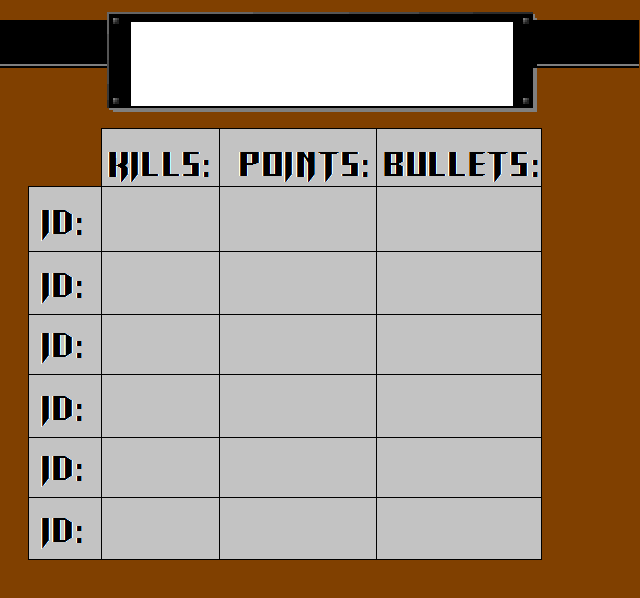
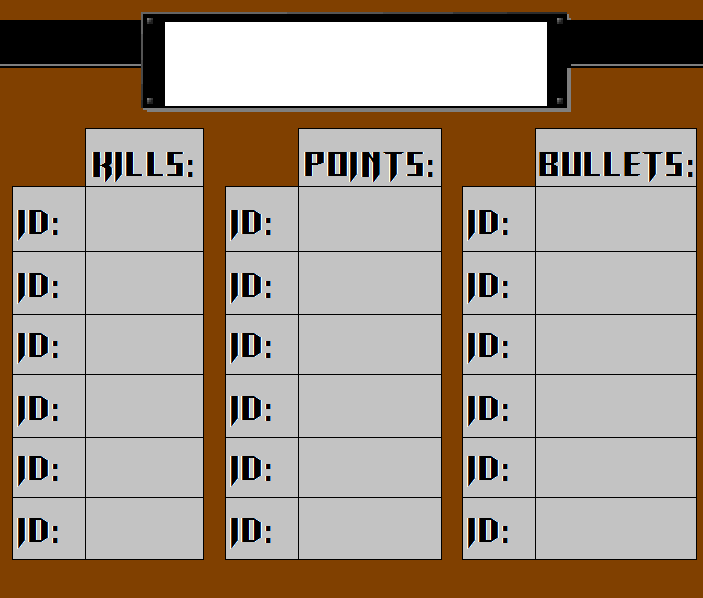
actualizada pantalla de fin de partida2

Changed region(s): [[0.0, 0.2107, 1.0, 0.9632], [0.1562, 0.0, 0.25, 0.2107], [0.7812, 0.0, 0.8438, 0.2107]]

diff --git a/client_src/texture.cpp b/client_src/texture.cpp
@@ -662,26 +662,34 @@ void Texture::showSprite(int first_x_pixel,int first_number_line_texture,int las
 		x_initial_pos,(int)x_lenght_ray*(last_x_pixel - first_x_pixel),initial_position_y,height_ray);
 }
 
-void Texture::showEndgame(){
+void Texture::showRanking(std::vector<std::pair<int,int>> &ordered_players_kills, \
+    std::vector<std::pair<int,int>> &ordered_players_points,std::vector<std::pair<int,int>> &ordered_players_bullets){
 
-	int first_x_pixel = 0;
-	int cant_x_pixels = 662;
-	int first_y_pixel = 0;
-	int cant_y_pixels = 281;
+    int position = 0;
+    for (auto& player : ordered_players_kills){
+    	showText(std::to_string(player.second).c_str(),40 , 40, 100 , 163 + position*50);
+    	showText(std::to_string(player.first).c_str(),40 , 40, 150, 163 + position*50);
+        ++position;
+    }
+    position = 0;
+    for (auto& player : ordered_players_points){
+    	showText(std::to_string(player.second).c_str(),40 , 40, 300 , 163 + position*50);
+    	showText(std::to_string(player.first).c_str(),40 , 40, 350, 163 + position*50);
+        ++position;
+    }
+    position = 0;
+    for (auto& player : ordered_players_bullets){
+        std::cout << "Position " << position << " Player_ID: " << player.second << " Bullets: " << player.first << std::endl;
+        ++position;
+    }
 
-	int windows_x_pos = 0;
-	int windows_y_pos = 0;
-	int length_x = width;
-	int lenght_y = height;
-
-	genericShow(ending_background,first_x_pixel,cant_x_pixels,first_y_pixel,cant_y_pixels,windows_x_pos,length_x,windows_y_pos,lenght_y);	
 }
 
 void Texture::showWinningScreen(std::vector<std::pair<int,int>> &ordered_players_kills, \
     std::vector<std::pair<int,int>> &ordered_players_points,std::vector<std::pair<int,int>> &ordered_players_bullets){
 
 	int first_x_pixel = 0;
-	int cant_x_pixels = 640;
+	int cant_x_pixels = 703;
 	int first_y_pixel = 0;
 	int cant_y_pixels = 598;
 
@@ -692,7 +700,9 @@ void Texture::showWinningScreen(std::vector<std::pair<int,int>> &ordered_players
 
 	genericShow(ending_background,first_x_pixel,cant_x_pixels,first_y_pixel,cant_y_pixels,windows_x_pos,length_x,windows_y_pos,lenght_y);	
 
-	showText("You won!!",35 , 25, width/2, 40);
+	showText("You won!!",40 , 40, width/2 + 190, 40);
+
+	showRanking(ordered_players_kills,ordered_players_points,ordered_players_bullets);
 
 }
 
@@ -700,7 +710,7 @@ void Texture::showLoosingScreen(int winner_id, std::vector<std::pair<int,int>> &
     std::vector<std::pair<int,int>> &ordered_players_points,std::vector<std::pair<int,int>> &ordered_players_bullets){
 
 	int first_x_pixel = 0;
-	int cant_x_pixels = 640;
+	int cant_x_pixels = 703;
 	int first_y_pixel = 0;
 	int cant_y_pixels = 598;
 
@@ -710,6 +720,8 @@ void Texture::showLoosingScreen(int winner_id, std::vector<std::pair<int,int>> &
 	int lenght_y = height + INFO_BAR_HEIGHT;
 
 	genericShow(ending_background,first_x_pixel,cant_x_pixels,first_y_pixel,cant_y_pixels,windows_x_pos,length_x,windows_y_pos,lenght_y);	
+
+	showRanking(ordered_players_kills,ordered_players_points,ordered_players_bullets);
 
 }
 

diff --git a/client_src/texture.h b/client_src/texture.h
@@ -83,6 +83,9 @@ private:
     
     void showKeys(bool has_key_1, bool has_key_2);
 
+    void showRanking(std::vector<std::pair<int,int>> &ordered_players_kills, \
+    std::vector<std::pair<int,int>> &ordered_players_points,std::vector<std::pair<int,int>> &ordered_players_bullets);
+
 public:
 
     Texture(const Window& window);
@@ -157,8 +160,6 @@ public:
     std::vector<std::pair<int,int>> &ordered_players_points,std::vector<std::pair<int,int>> &ordered_players_bullets);
 
     void showDisconnectedScreen();
-
-    void showEndgame();
 
     // Destruye las texturas iniciadas
     ~Texture();

diff --git a/client_src/Screen.cpp b/client_src/Screen.cpp
@@ -96,7 +96,7 @@ void Screen::showEndgame(bool player_won, int winner_id, bool game_done, std::ve
 			texture.showLoosingScreen(winner_id,ordered_players_kills,ordered_players_points,ordered_players_bullets);
 		}
 	}else{
-		texture.showDisconnectedScreen();
+		//texture.showDisconnectedScreen();
 	}
 	window.render();
 }
